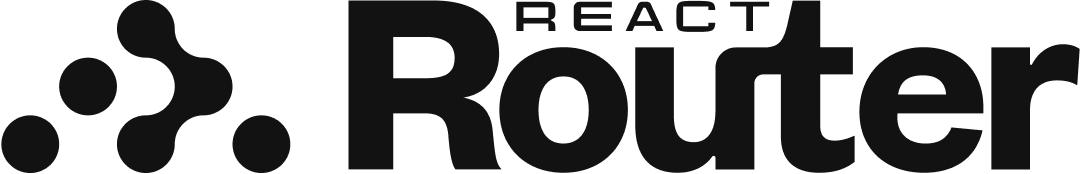
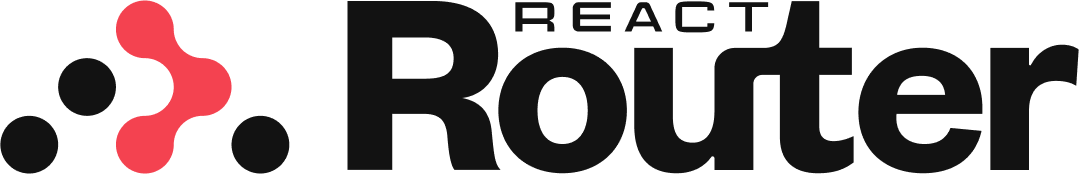
Fix brand page and splash hero image

diff --git a/app/pages/splash.tsx b/app/pages/splash.tsx
@@ -115,21 +115,18 @@ export default function Home({ loaderData }: Route.ComponentProps) {
     <main className="flex min-h-full w-full flex-col items-center justify-center dark:bg-gray-900">
       <section className="from-23% via-82% flex w-full flex-col items-center gap-y-12 bg-gradient-to-b from-[#CCD2DE] via-[#D9DDE6] to-white to-100% py-[96px] dark:from-[#595F6C] dark:via-[#202228] dark:via-65% dark:to-gray-900 md:py-[160px]">
         <h1>
-          <picture className="aspect-[32/5] w-[360px] md:w-[480px] lg:w-[640px] 2xl:w-[960px]">
-            <source
-              srcSet="/splash/hero-3d-logo.webp"
-              media="(prefers-color-scheme: light)"
-            />
-            <source
-              srcSet="/splash/hero-3d-logo.dark.webp"
-              media="(prefers-color-scheme: dark)"
-            />
+          <span className="block">
             <img
               src="/splash/hero-3d-logo.webp"
               alt="React Router logo, six dots in an upward triangle (one on top, two in the middle, three on the bottom) with a path of three highlighted and connected from top to bottom, next to the text React Router"
-              className="aspect-[32/5] w-[360px] md:w-[480px] lg:w-[640px] 2xl:w-[960px]"
+              className="aspect-[32/5] w-[360px] dark:hidden md:w-[480px] lg:w-[640px] 2xl:w-[960px]"
             />
-          </picture>
+            <img
+              src="/splash/hero-3d-logo.dark.webp"
+              alt="React Router logo, six dots in an upward triangle (one on top, two in the middle, three on the bottom) with a path of three highlighted and connected from top to bottom, next to the text React Router"
+              className="hidden aspect-[32/5] w-[360px] dark:block md:w-[480px] lg:w-[640px] 2xl:w-[960px]"
+            />
+          </span>
         </h1>
         <p className="mx-12 max-w-[540px] text-center text-xl text-gray-700 dark:text-gray-200 md:mx-0">
           A user‑obsessed, standards‑focused, multi‑strategy router you can

diff --git a/app/pages/brand.tsx b/app/pages/brand.tsx
@@ -37,7 +37,7 @@ export default function Brand() {
       </p>
       <p>
         <a
-          href="/_brand/React Router Brand Assets.zip"
+          href={encodeURI("/_brand/React Router Brand Assets.zip")}
           className="underline hover:text-red-brand"
           download
         >
@@ -125,6 +125,10 @@ let background = {
   dark: "bg-black bg-[linear-gradient(45deg,theme(colors.gray.800)_25%,transparent_25%,transparent_75%,theme(colors.gray.800)_75%,theme(colors.gray.800)),linear-gradient(45deg,theme(colors.gray.800)_25%,transparent_25%,transparent_75%,theme(colors.gray.800)_75%,theme(colors.gray.800))] bg-[length:24px_24px] bg-[position:0_0,12px_12px]",
 };
 
+function assetUrl(filePath: string, format = "svg") {
+  return encodeURI(`${filePath}.${format}`);
+}
+
 function LogoBox({
   filePath,
   theme,
@@ -147,7 +151,7 @@ function LogoBox({
       >
         <img
           className="max-h-[33%] max-w-[50%]"
-          src={`${filePath}.svg`}
+          src={assetUrl(filePath)}
           alt={alt}
         />
       </div>
@@ -155,7 +159,7 @@ function LogoBox({
         {["svg", "png"].map((format) => (
           <a
             className="uppercase underline opacity-50 hover:opacity-100"
-            href={`${filePath}.${format}`}
+            href={assetUrl(filePath, format)}
             download={`${downloadFilePath}.${format}`}
             key={format}
           >
